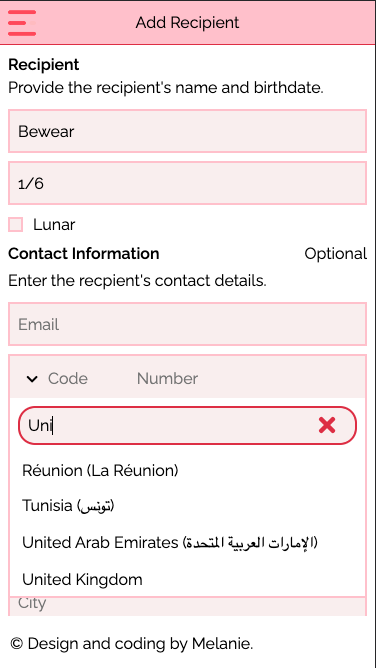
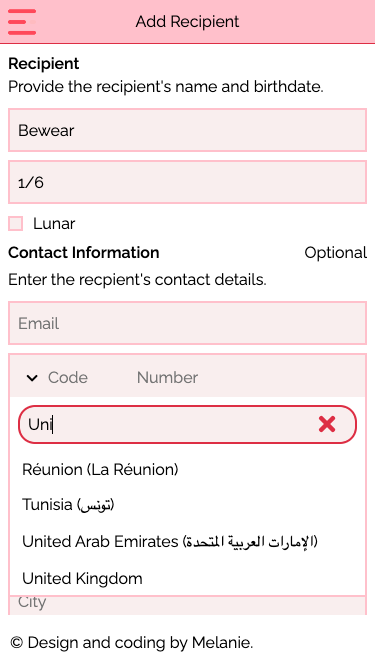
chore: start updating README with app screenshots.

diff --git a/src/styles.css b/src/styles.css
@@ -480,10 +480,6 @@ button:disabled .ml-arrow-btn {
   padding: 8px;
 }
 
-.ml-task-list__item *:not(:last-child) {
-  margin-bottom: 4px;
-}
-
 .ml-task-list__item:not(:last-child) {
   border-bottom: 1px solid pink;
 }

diff --git a/README.md b/README.md
@@ -1,5 +1,10 @@
 # List
 
+# TODO:
+
+- change password
+- forgot password
+
 [Project] Remember upcoming birthdays (both solar and lunar), gifts, meetings, and tasks with this handy app. Users can opt into email and text notifications for upcoming events.
 
 This app provides the user with the ability to keep all gift-giving information, such as a person's solar and/or lunar birthday, mailing address, email, phone number, and maximum budget, in one place. Users can also create records of gifts that they have given out in the past, create meetings and tasks, and receive e-mail and text reminders of upcoming birthdays, meetings, and tasks.
@@ -8,6 +13,8 @@ Login / Sign Up
 
 - Users can create an account using an e-mail address and password.
 - Once the account is created, users can log in with their credentials.
+
+<img src="./screenshots/created-user.png"/>
 
 Home
 
@@ -28,6 +35,9 @@ Add Recipient
 - The Add Recipient form allows the user to provide information related to gift-giving, including the recipient's name, birthdate (including whether the birthday is lunar or solar), email, phone number, mailing address, and budget.
 - Users can optionally upload a profile image that best represents the recipient.
 - Users can specify how they would like to contact the recipient on their birthday (ex. call, text), and whether they would like to send a gift.
+
+<img src="./screenshots/create-recipient.png"/>
+<img src="./screenshots/country-selector.png"/>
 
 Add Gift
 
@@ -78,9 +88,10 @@ Settings
 
 ## Architecture
 
-The client and server apps are hosted on the same server. 
+The client and server apps are hosted on the same server.
 
 The Node server is responsible for:
+
 - Handling calls to fetch the Chinese calendar (http://ccal.chinesebay.com/cgi-bin/ccal.cgi/).
 - Login / registration.
 - CRUD calls for the recipient, meeting, and task-related operations.
